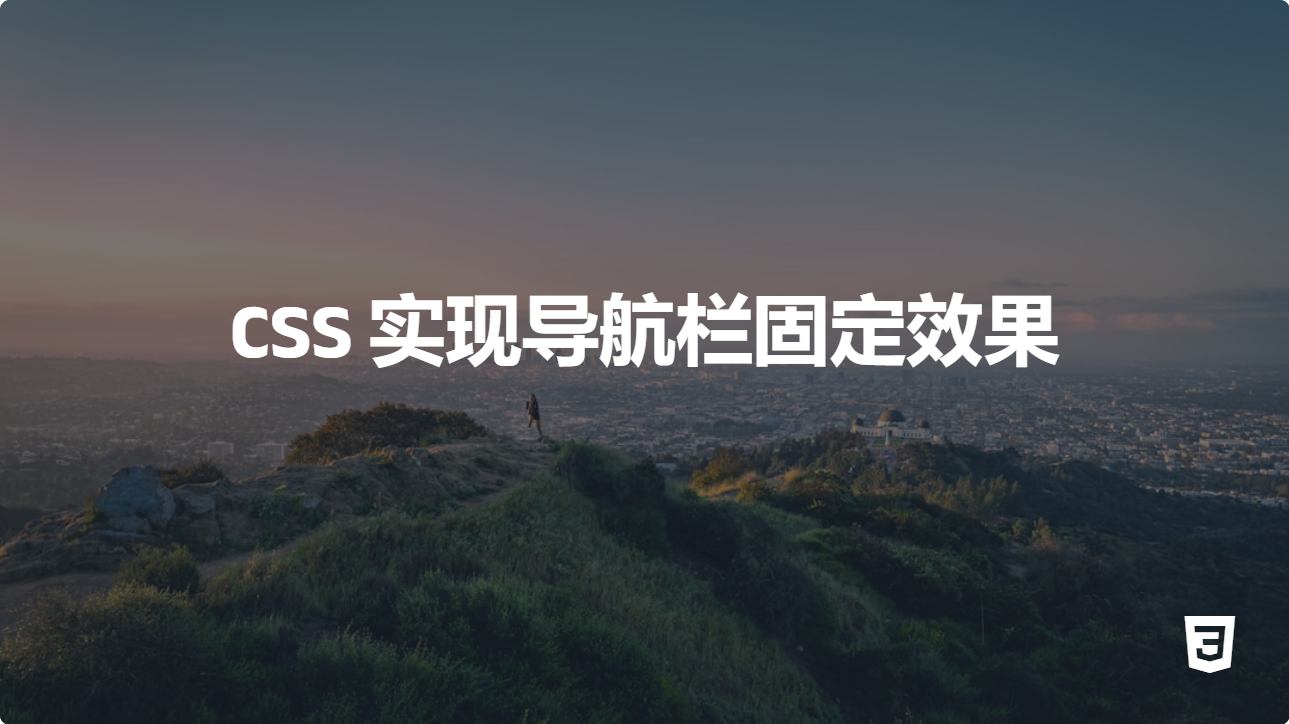
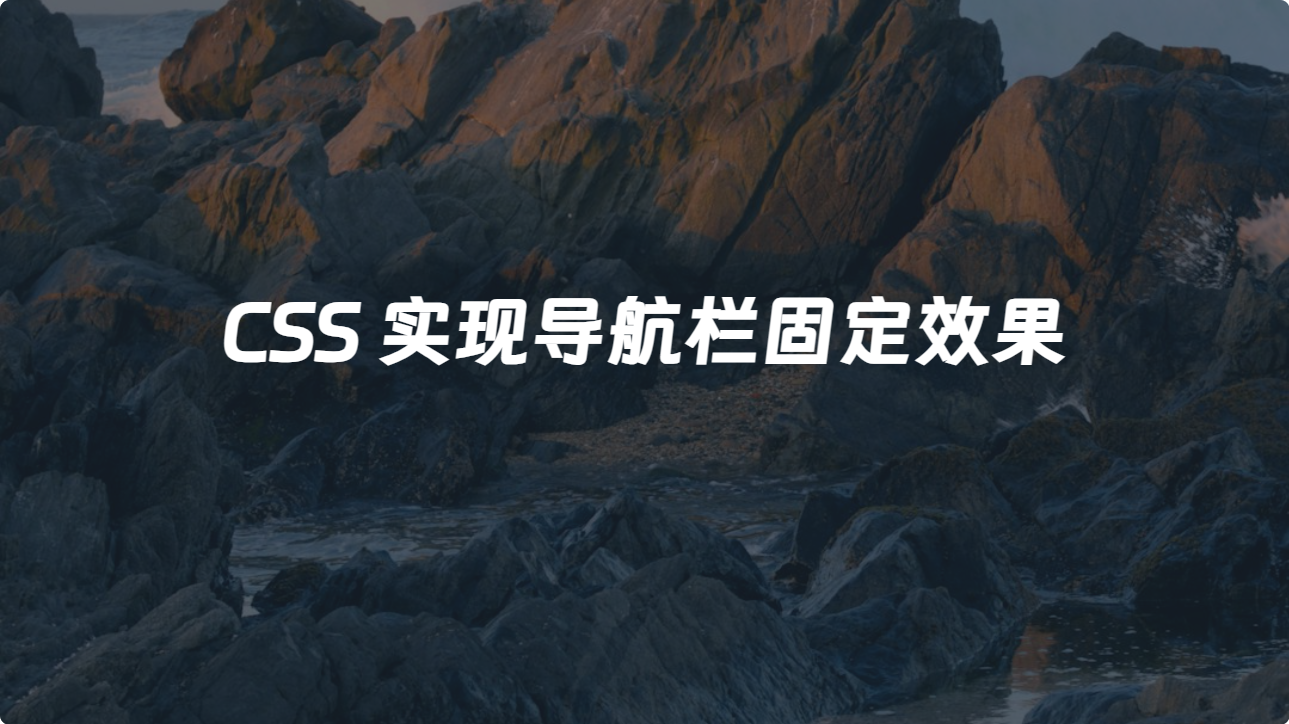
更新文章封面

diff --git a/src/DevelopmentSkills/09-CSS实现三角形.md b/src/DevelopmentSkills/09-CSS实现三角形.md
@@ -3,8 +3,9 @@ title: CSS 实现三角形
 order: 9
 date: 2024-04-29
 category: 软件开发
-tag:
-  - CSS
+tag: CSS
+cover: /assets/images/CSS 实现三角形.png
+banner: /assets/images/CSS 实现三角形.png
 ---
 
 网页中常见一些三角形，使用 CSS 边框可以 直接画出来，不必做成图片或者字体图标

diff --git a/src/SoftwareTool/03-我的浏览器插件合集.md b/src/SoftwareTool/03-我的浏览器插件合集.md
@@ -3,8 +3,9 @@ title: 我的浏览器插件合集
 order: 3
 date: 2024-03-05
 category: 软件工具
-tag:
-  - 浏览器插件
+tag: 浏览器插件
+cover: /assets/images/我的浏览器插件合集.png
+banner: /assets/images/我的浏览器插件合集.png
 ---
 
 ## ACG助手：专为bilibili定制的综合辅助扩展

diff --git a/src/DevelopmentSkills/07-echarts图表占满整个容器.md b/src/DevelopmentSkills/07-echarts图表占满整个容器.md
@@ -3,8 +3,9 @@ title: echarts 图表占满整个容器
 order: 7
 date: 2024-04-29
 category: 软件开发
-tag:
-  - echarts
+tag: echarts
+cover: /assets/images/echarts 图表占满整个容器.png
+banner: /assets/images/echarts 图表占满整个容器.png
 ---
 
 通过 `grid` 属性调整。

diff --git a/src/DevelopmentSkills/04-文字跑马灯效果的实现.md b/src/DevelopmentSkills/04-文字跑马灯效果的实现.md
@@ -3,8 +3,9 @@ title: 文字跑马灯效果的实现
 order: 4
 date: 2024-03-18
 category: 软件开发
-tag:
-  - Vue
+tag: Vue
+cover: /assets/images/文字跑马灯效果的实现.png
+banner: /assets/images/文字跑马灯效果的实现.png
 ---
 
 ## Vue 实现文字跑马灯效果

diff --git a/src/DevelopmentSkills/06-盒子宽度自适应文字内容.md b/src/DevelopmentSkills/06-盒子宽度自适应文字内容.md
@@ -3,8 +3,9 @@ title: 盒子宽度自适应文字内容
 order: 6
 date: 2024-04-29
 category: 软件开发
-tag:
-  - CSS
+tag: CSS
+cover: /assets/images/盒子宽度自适应文字内容.png
+banner: /assets/images/盒子宽度自适应文字内容.png
 ---
 
 ## 效果描述

diff --git a/src/NestJSLearningRecord/02-控制反转与依赖注入.md b/src/NestJSLearningRecord/02-控制反转与依赖注入.md
@@ -3,8 +3,9 @@ title: 控制反转与依赖注入
 order: 2
 date: 2024-03-05
 category: 软件开发
-tag:
-    - Nest
+tag: Nest
+cover: /assets/images/控制反转与依赖注入.png
+banner: /assets/images/控制反转与依赖注入.png
 ---
 
 ## 控制反转（IoC）

diff --git a/src/SoftwareTool/05-我的电脑必装软件合集.md b/src/SoftwareTool/05-我的电脑必装软件合集.md
@@ -3,8 +3,9 @@ title: 我的电脑必装软件合集
 order: 5
 date: 2024-03-18
 category: 软件工具
-tag:
-  - 电脑
+tag: 电脑
+cover: /assets/images/我的电脑必装软件合集.png
+banner: /assets/images/我的电脑必装软件合集.png
 ---
 
 ## 微信

diff --git a/src/SoftwareTool/04-VSCode配置指南.md b/src/SoftwareTool/04-VSCode配置指南.md
@@ -3,8 +3,9 @@ title: VSCode 配置指南
 order: 4
 date: 2024-03-09
 category: 软件工具
-tag:
-  - VSCode
+tag: VSCode
+cover: /assets/images/VSCode 配置指南.png
+banner: /assets/images/VSCode 配置指南.png
 ---
 
 > 记录我常用的 VSCode 基础配置

diff --git a/src/DevelopmentSkills/03-async异常捕获.md b/src/DevelopmentSkills/03-async异常捕获.md
@@ -3,8 +3,9 @@ title: async 异常捕获
 order: 3
 date: 2024-03-07
 category: 软件开发
-tag:
-  - JavaScript
+tag: JavaScript
+cover: /assets/images/async 异常捕获.png
+banner: /assets/images/async 异常捕获.png
 ---
 
 ## 使用 try-catch 捕获异常

diff --git a/src/DevelopmentSkills/08-文本溢出的处理.md b/src/DevelopmentSkills/08-文本溢出的处理.md
@@ -3,8 +3,9 @@ title: 文本溢出的处理
 order: 8
 date: 2024-04-29
 category: 软件开发
-tag:
-  - CSS
+tag: CSS
+cover: /assets/images/文本溢出的处理.png
+banner: /assets/images/文本溢出的处理.png
 ---
 
 ## 单行文本溢出显示省略号

diff --git a/src/NestJSLearningRecord/12-文件上传与下载.md b/src/NestJSLearningRecord/12-文件上传与下载.md
@@ -3,8 +3,9 @@ title: 文件上传与下载
 order: 12
 date: 2024-03-05
 category: 软件开发
-tag:
-    - Nest
+tag: Nest
+cover: /assets/images/文件上传与下载.png
+banner: /assets/images/文件上传与下载.png
 ---
 
 ## 安装需要的库

diff --git a/src/NestJSLearningRecord/11-自定义装饰器.md b/src/NestJSLearningRecord/11-自定义装饰器.md
@@ -3,8 +3,9 @@ title: 自定义装饰器
 order: 11
 date: 2024-03-05
 category: 软件开发
-tag:
-    - Nest
+tag: Nest
+cover: /assets/images/自定义装饰器.png
+banner: /assets/images/自定义装饰器.png
 ---
 
 ## 创建自定义装饰器
